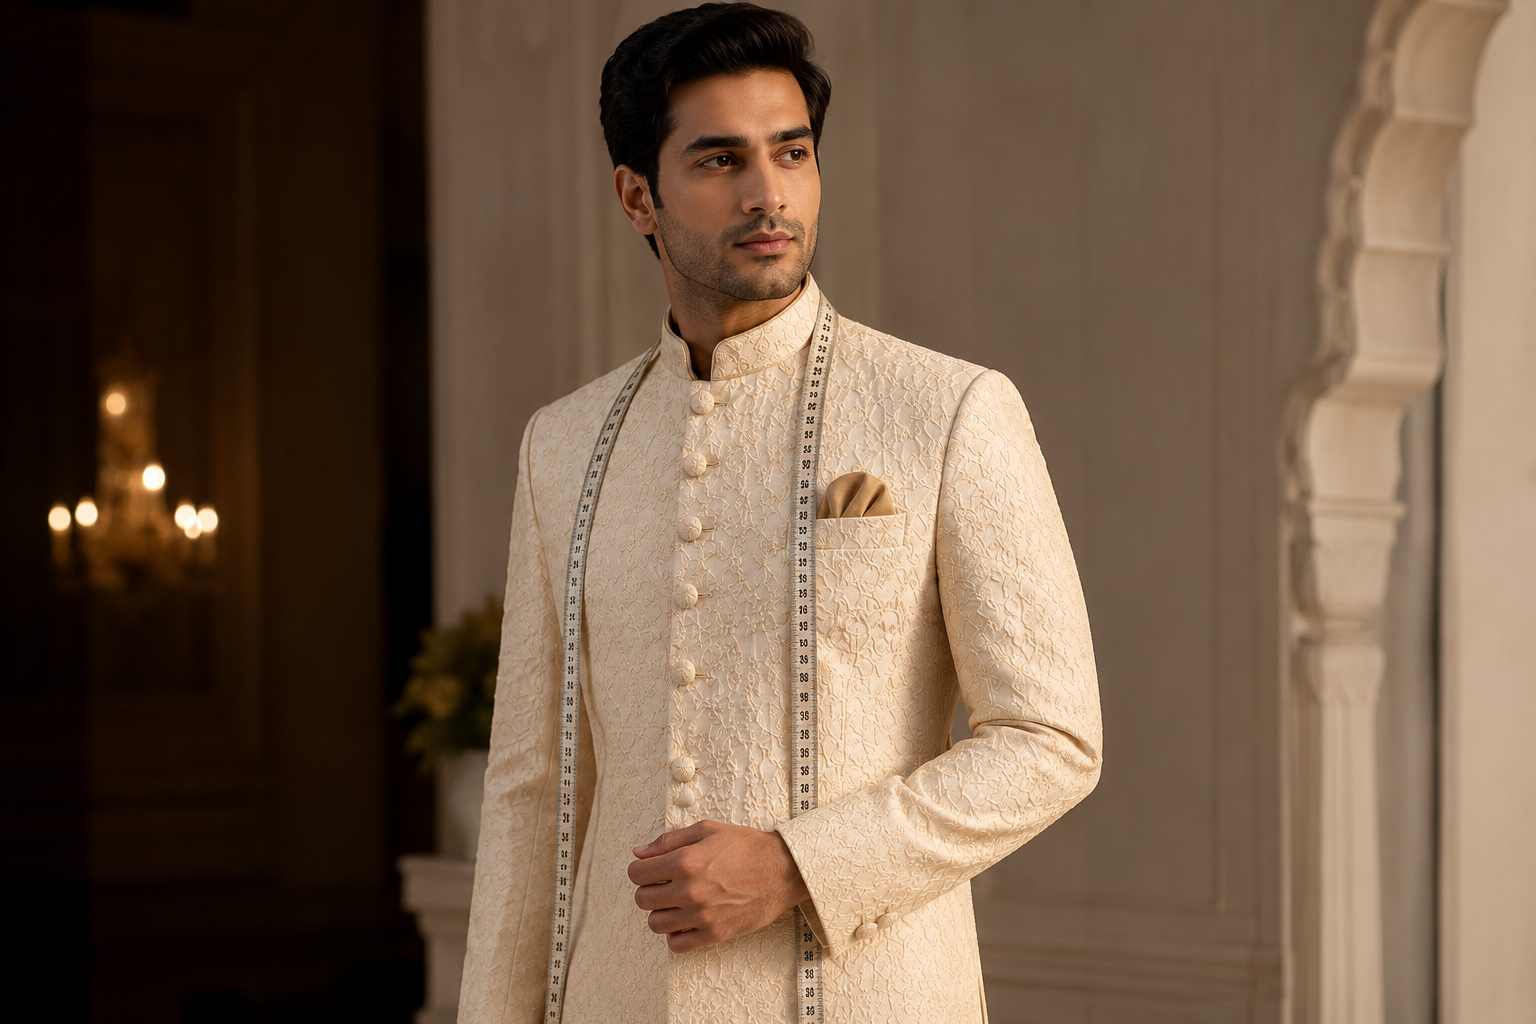
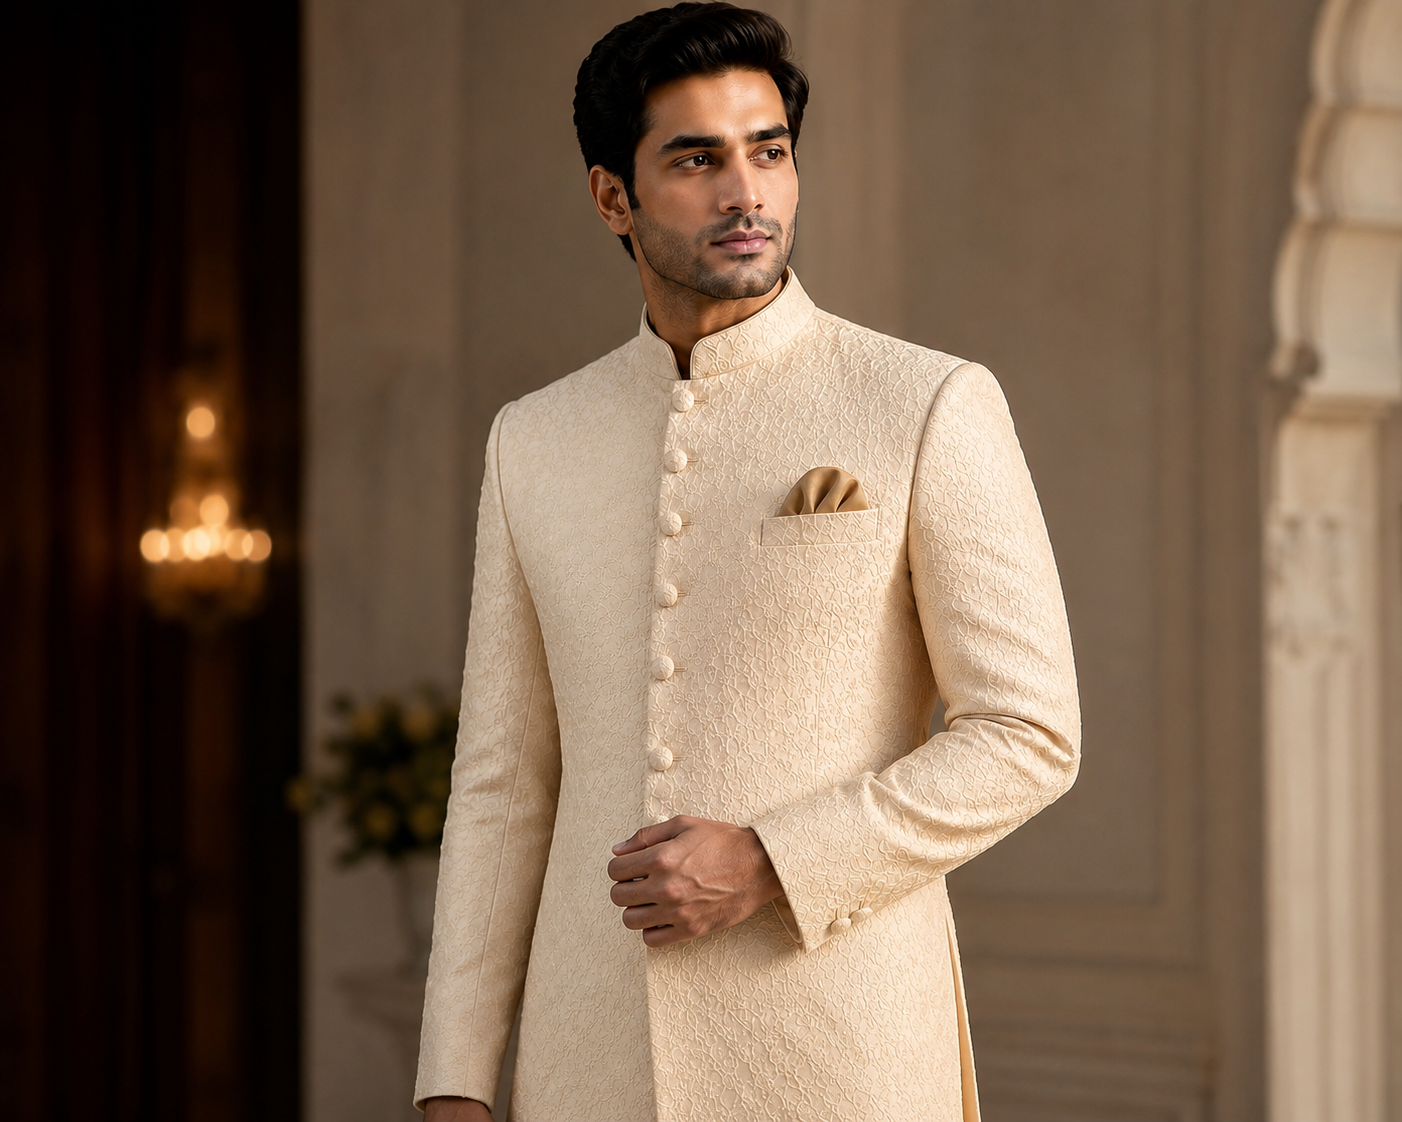
Second commit

diff --git a/src/components/HeroCarousel.tsx b/src/components/HeroCarousel.tsx
@@ -15,6 +15,8 @@ type Slide = {
   imageUrl: string;
   imageAlt: string;
   tintClassName: string;
+  startingPriceLabel?: string;
+  startingPrice?: string;
   primaryHref: string;
   primaryLabel: string;
   secondaryHref: string;
@@ -24,6 +26,7 @@ type Slide = {
 function buildSlides(heroImageUrl: string, heroHeading: string, heroAccent: string, heroSubheading: string): Slide[] {
   const fallbackImage = "/images/Sherwani_Hero.png";
   const image = heroImageUrl || fallbackImage;
+  const weddingImage = "/images/Wedding-Collection-Hero.png";
 
   return [
     {
@@ -44,9 +47,11 @@ function buildSlides(heroImageUrl: string, heroHeading: string, heroAccent: stri
       heading: "Wedding",
       accent: "Collection",
       subheading: "Heirloom craftsmanship for your most celebrated day.",
-      imageUrl: image,
+      imageUrl: weddingImage,
       imageAlt: "Model dressed in wedding ethnic wear",
       tintClassName: "bg-[#7a3d3a]/[0.10]",
+      startingPriceLabel: "Coat Pant",
+      startingPrice: "₹2,800",
       primaryHref: "/category/women",
       primaryLabel: "Shop Now",
       secondaryHref: "/stitching/new",
@@ -164,6 +169,18 @@ export default function HeroCarousel({
                     <p className="mt-4 text-xs leading-relaxed text-header-text-muted sm:text-sm">
                       {slide.subheading}
                     </p>
+                    {slide.startingPrice && (
+                      <div className="mt-5">
+                        <span className="block h-px w-8 bg-white/25" />
+                        <p className="mt-4 text-sm font-medium text-header-text sm:text-base">
+                          {slide.startingPriceLabel}
+                        </p>
+                        <p className="text-xs text-header-text-muted sm:text-sm">Starting at</p>
+                        <p className="mt-1 font-serif text-3xl font-bold text-gold sm:text-4xl">
+                          {slide.startingPrice}
+                        </p>
+                      </div>
+                    )}
                   </div>
 
                   <div className="max-w-[62%] sm:max-w-[50%]">
